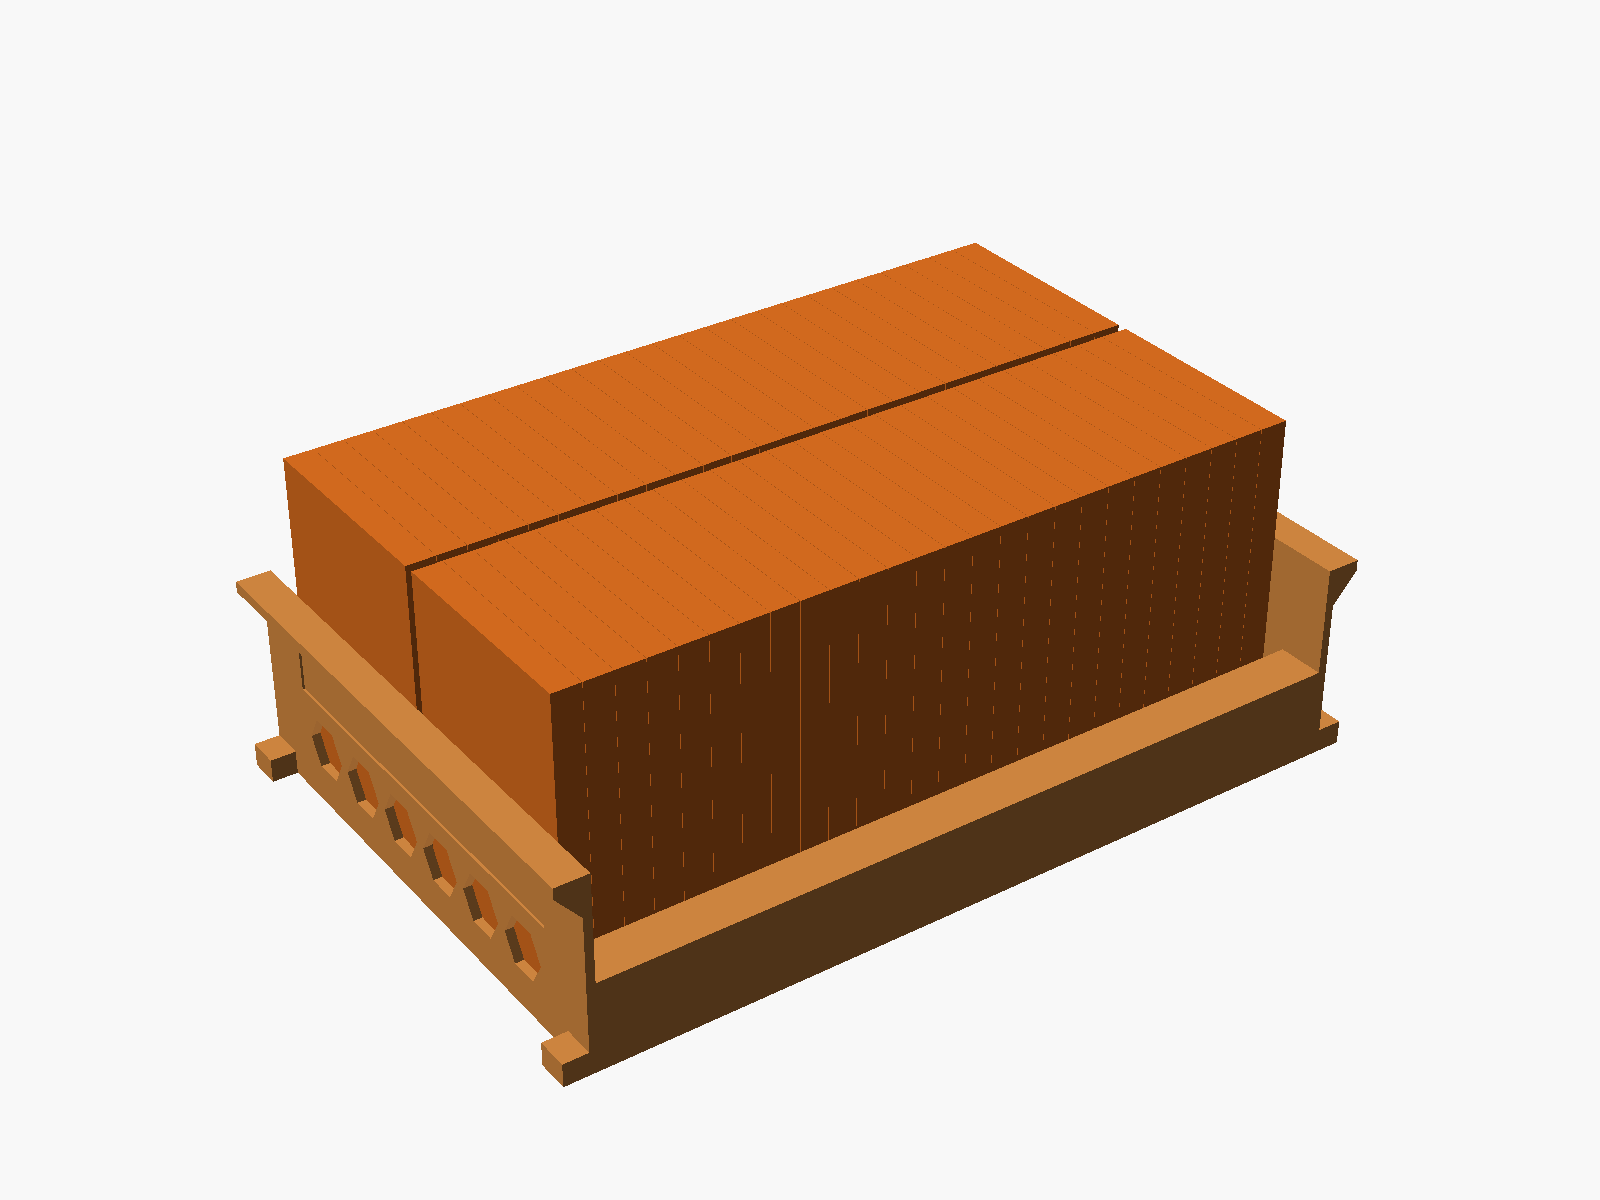
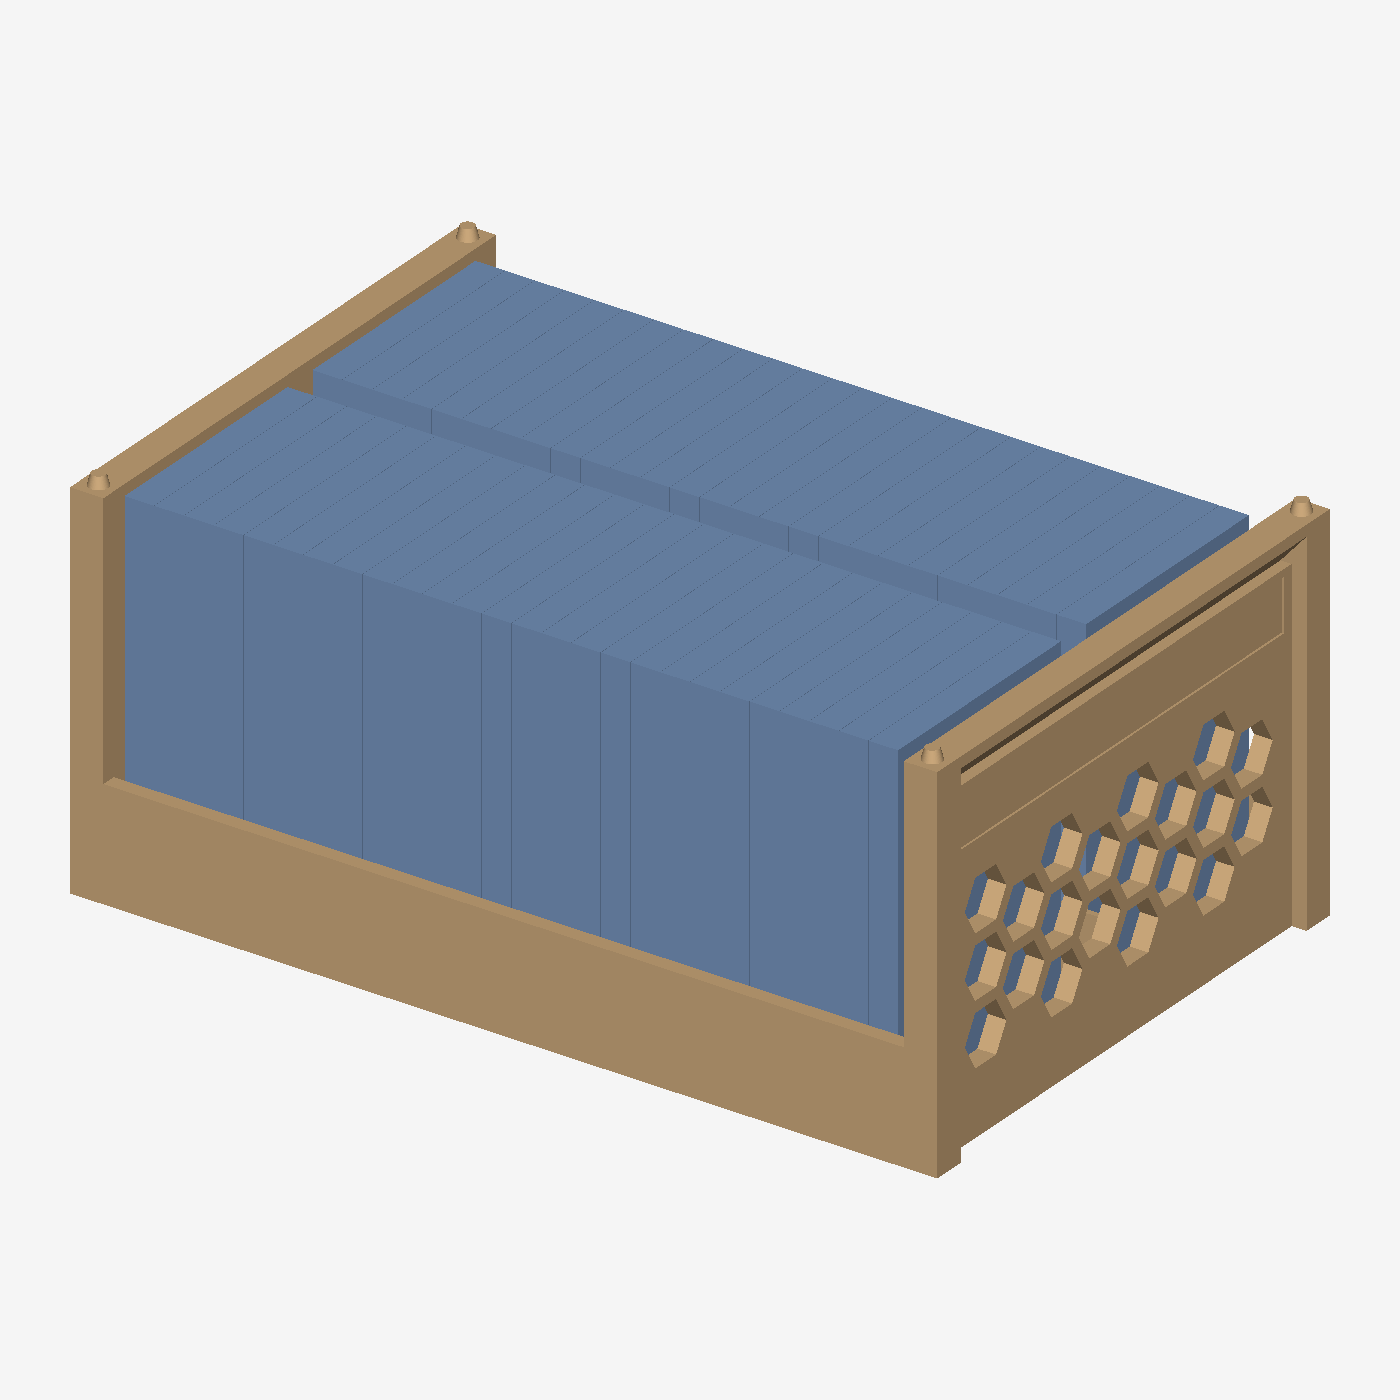
Regenerate previews, release scripts (9-plate MakerWorld 3MF, Cults package), README for the SLAB tray, bookend track and thicker walls

diff --git a/makerworld/make_3mf.py b/makerworld/make_3mf.py
@@ -1,0 +1,38 @@
+"""Bambu Studio (A1, 0.4 mm) project files for MakerWorld: one plate per part. Reuses the 3MF writer from ~/Projects/coin-trays.
+Usage: python make_3mf.py <dest-dir>   (needs numpy, trimesh, manifold3d, shapely, scipy)"""
+import sys, os, json, zipfile, shutil
+DEST=os.path.abspath(sys.argv[1]); os.makedirs(DEST,exist_ok=True)
+sys.argv=['x','/nonexistent','/tmp/_unused_3mf']; sys.path.insert(0,os.path.expanduser('~/Projects/coin-trays/tools'))
+import numpy as np, trimesh
+import make_color_3mf as m
+V=os.path.expanduser('~/Projects/coin-vault/out/'); PITCH=307.2; NPLATES=int(os.environ.get('NPLATES','9'))
+def cols(n): v=n**0.5; r=round(v); return r+1 if v>r else r      # Bambu Studio's plate grid: cols = round(sqrt(n)), rounded up on a tie-ish
+COLS=cols(NPLATES)
+def obj(name,stl,plate,xy):
+    t=trimesh.load(V+stl); c=(t.bounds[0]+t.bounds[1])/2; h=t.bounds[1][2]-t.bounds[0][2]
+    t=t.copy(); t.vertices=t.vertices-c
+    i=plate-1; x=(i%COLS)*PITCH+xy[0]; y=-(i//COLS)*PITCH+xy[1]
+    return dict(name=name,item=f'1 0 0 0 1 0 0 0 1 {x:.6f} {y:.6f} {h/2:.6f}',plate=plate,parts=[dict(name=name,mesh=t,extruder=1)])
+PLATE_NAMES={1:'Y63 5oz tray (48)',2:'H39 1oz tray (117)',3:'Nickel tray (175)',4:'Half dollar tray (105)',5:'Mixed nickel + half tray (140)',
+    6:'Rectangular capsule tray (90)',7:'Slab tray (52 or 84)',8:'Lid (one per stack)',9:'Bookends x6 (all sizes)'}   # keep <= ~30 chars, no colon (Bambu Studio blanks long names)
+def name_plates(ms):
+    import re
+    return re.sub(r'(<metadata key="plater_id" value="(\d+)"/>\s*<metadata key="plater_name" value=")"',lambda g:g.group(1)+PLATE_NAMES.get(int(g.group(2)),'')+'"',ms)
+def project(path,title,objs):
+    m.write_project(path,title,objs,None)
+    s=json.load(open(f'{m.AS}/bambu_template/project_settings.config'))
+    s.update({'layer_height':'0.2','print_settings_id':'0.20mm Standard @BBL A1','sparse_infill_density':'15%','wall_loops':'3',
+              'filament_settings_id':['Bambu PLA Basic @BBL A1','Bambu PLA Basic @BBL A1'],'filament_colour':['#3A3A3C','#000000'],'enable_support':'0'})
+    tmp=path+'.tmp'
+    with zipfile.ZipFile(path) as zi, zipfile.ZipFile(tmp,'w',zipfile.ZIP_DEFLATED) as zo:
+        for it in zi.infolist(): zo.writestr(it.filename, json.dumps(s,indent=4) if it.filename=='Metadata/project_settings.config' else name_plates(zi.read(it.filename).decode()) if it.filename=='Metadata/model_settings.config' else zi.read(it.filename))
+    os.replace(tmp,path)
+C=(128,128)
+fam=[obj('5 oz Y63 tray (48)','coin_vault_tray_Y63.stl',1,C),obj('1 oz H39 tray (117)','coin_vault_tray_H39.stl',2,C),
+     obj('Nickel tray (175)','coin_vault_tray_NICKEL.stl',3,C),obj('Half dollar tray (105)','coin_vault_tray_HALF.stl',4,C),
+     obj('Mixed nickel + half tray (140)','coin_vault_tray_MIXED.stl',5,C),obj('Rectangular capsule tray (90)','coin_vault_tray_RECT.stl',6,C),
+     obj('Slab tray (52 or 84)','coin_vault_tray_SLAB.stl',7,C),obj('Lid','coin_vault_lid.stl',8,C)]
+bk=[('Y63','coin_vault_bookend_Y63.stl',(50,50)),('H39','coin_vault_bookend_H39.stl',(130,50)),('RECT','coin_vault_bookend_RECT.stl',(195,50)),
+    ('SLAB','coin_vault_bookend_SLAB.stl',(70,125)),('HALF','coin_vault_bookend_HALF.stl',(150,125)),('NICKEL','coin_vault_bookend_NICKEL.stl',(200,125))]
+fam+= [obj(f'Bookend {n}',f,9,xy) for n,f,xy in bk]
+project(f'{DEST}/coin_vault_all_trays.3mf','Coin Vault - all trays',fam)

diff --git a/package/build_cults_package.py b/package/build_cults_package.py
@@ -1,0 +1,35 @@
+"""Rebuild the Cults3D / download package (STL + plain 3MF per part, one zip per tray) from out/*.stl.
+Usage: python build_cults_package.py <dest>      (dest = .../Copper_Capsule_Trays; STL/ 3MF/ Zips_per_tray/ and ../Copper_Capsule_Trays.zip are rewritten; Images/ + LISTING_TEXT.md are left alone)
+Needs: trimesh numpy"""
+import sys, os, shutil, zipfile, trimesh
+V = os.path.expanduser('~/Projects/coin-vault/out/'); D = os.path.abspath(sys.argv[1])
+TR = [('1_5oz_Y63_48_capsules', 'Y63', ['5oz_Y63']), ('2_1oz_H39_117_capsules', 'H39', ['1oz_H39']),
+      ('3_Buffalo_Nickel_175_capsules', 'NICKEL', ['Buffalo_Nickel']), ('4_Half_Dollar_105_capsules', 'HALF', ['Half_Dollar']),
+      ('5_Mixed_35_nickel_105_half', 'MIXED', ['Buffalo_Nickel', 'Half_Dollar']), ('6_Rectangular_35.7x57.5_90_capsules', 'RECT', ['Rectangular']),
+      ('7_Slab_52_or_84_capsules', 'SLAB', ['Slab'])]
+BK = {'5oz_Y63': 'Y63', '1oz_H39': 'H39', 'Buffalo_Nickel': 'NICKEL', 'Half_Dollar': 'HALF', 'Rectangular': 'RECT', 'Slab': 'SLAB'}
+for d in ('STL', '3MF', 'Zips_per_tray'): shutil.rmtree(f'{D}/{d}', ignore_errors=True)
+for fmt in ('STL', '3MF'):
+    for sub in ('1_Trays', '2_Lid', '3_Bookends'): os.makedirs(f'{D}/{fmt}/{sub}')
+def emit(src, sub, name):
+    for fmt in ('STL', '3MF'):
+        p = f'{D}/{fmt}/{sub}/{name}.{fmt.lower()}'
+        if fmt == 'STL': shutil.copy(V + src, p)
+        else: trimesh.load(V + src).export(p)
+for name, key, _ in TR: emit(f'coin_vault_tray_{key}.stl', '1_Trays', name)
+emit('coin_vault_lid.stl', '2_Lid', 'Flat_Lid')
+for name, key in BK.items(): emit(f'coin_vault_bookend_{key}.stl', '3_Bookends', f'Bookend_{name}')
+os.makedirs(f'{D}/Zips_per_tray')
+for name, key, bks in TR:
+    with zipfile.ZipFile(f'{D}/Zips_per_tray/{name[2:]}.zip', 'w', zipfile.ZIP_DEFLATED) as z:
+        for fmt in ('3MF', 'STL'):
+            ext = fmt.lower(); z.write(f'{D}/{fmt}/1_Trays/{name}.{ext}', f'{fmt}/{name[2:]}.{ext}' if fmt == 'STL' else f'{name[2:]}.{ext}')
+            for b in bks: z.write(f'{D}/{fmt}/3_Bookends/Bookend_{b}.{ext}', f'Bookends/{"STL/" if fmt == "STL" else ""}Bookend_{b}.{ext}')
+            z.write(f'{D}/{fmt}/2_Lid/Flat_Lid.{ext}', f'Lid/{"STL/" if fmt == "STL" else ""}Flat_Lid.{ext}')
+top = os.path.join(os.path.dirname(D), os.path.basename(D) + '.zip')
+with zipfile.ZipFile(top, 'w', zipfile.ZIP_DEFLATED) as z:
+    for fmt in ('3MF', 'STL'):
+        for root, _, fs in os.walk(f'{D}/{fmt}'):
+            for f in fs:
+                if not f.startswith('.'): p = os.path.join(root, f); z.write(p, os.path.relpath(p, D))
+print('ok', top)

diff --git a/package/render_previews.py b/package/render_previews.py
@@ -1,0 +1,27 @@
+"""Render the listing / README preview images from out/*.stl (+ loaded capsules from the .scad).
+Usage: python render_previews.py <outdir>    (needs openscad on PATH, numpy trimesh pillow)"""
+import sys, os, subprocess, trimesh, numpy as np
+sys.path.insert(0, os.path.expanduser('~/Projects/coin-vault')); import render
+V = os.path.expanduser('~/Projects/coin-vault/'); O = os.path.abspath(sys.argv[1]); os.makedirs(O, exist_ok=True)
+TRAY, CAPS, LID = (205, 170, 125), (120, 150, 190), (110, 110, 118)
+cache = {}
+def caps(c):
+    p = f'{O}/_caps_{c}.stl'
+    if not os.path.exists(p): subprocess.run(['openscad', '-o', p, '-D', f'capsule="{c}"', '-D', 'part="capsules_full"', V + 'coin_vault.scad'], capture_output=True)
+    return trimesh.load(p)
+def tray(c):
+    t = trimesh.load(V + f'out/coin_vault_tray_{c}.stl'); return t, t.bounds[1][2] - 3.0
+def at(m, z): m = m.copy(); m.apply_translation([0, 0, z]); return m
+def scene(kinds, lid=False, loaded=True):
+    ms, z = [], 0.0
+    for c in kinds:
+        t, H = tray(c); ms.append((at(t, z), TRAY))
+        if loaded: ms.append((at(caps(c), z), CAPS))
+        z += H
+    if lid: ms.append((at(trimesh.load(V + 'out/coin_vault_lid.stl'), z), LID))
+    return ms
+JOBS = {'1_stack_with_flat_lid': (['Y63', 'H39', 'HALF'], True, -55, 26), '2_stack_with_slab_tray': (['Y63', 'SLAB', 'H39'], True, -55, 26),
+        '3_5oz_Y63_tray': (['Y63'], False, -55, 30), '4_1oz_H39_tray': (['H39'], False, -55, 30), '5_mixed_nickel_half_loaded': (['MIXED'], False, -55, 32),
+        '6_rectangular_loaded': (['RECT'], False, -55, 32), '7_slab_tray_loaded': (['SLAB'], False, -55, 28), '8_stack_5oz': (['Y63', 'Y63', 'Y63'], True, -55, 26)}
+for name, (kinds, lid, az, el) in JOBS.items():
+    render.render(scene(kinds, lid), az=az, el=el, size=1400, out=f'{O}/{name}.png'); print(name, flush=True)

diff --git a/README.md b/README.md
@@ -4,7 +4,9 @@
 edge, face to face, in a curved cradle, and a sliding bookend keeps a part-full row
 upright. Everything is parametric OpenSCAD and prints with no supports.
 
-![Mixed stack: one 5 oz tray, two 1 oz trays, one lid](out/preview_stack_mixed.png)
+![Stack: 5 oz, 1 oz and half-dollar trays under one lid](out/preview_stack_mixed.png)
+
+![Bookend track, 4 mm long walls, 5 mm end walls](out/preview_bookend_track_and_walls.png)
 
 ## Parts
 
@@ -16,11 +18,11 @@ upright. Everything is parametric OpenSCAD and prints with no supports.
 | `coin_vault_tray_HALF.stl` | 105 × half dollars in Ø35.3 capsules (3 rows) | 233 × 151 × 42 | ~165 g |
 | `coin_vault_tray_MIXED.stl` | 35 nickels (front row) + 105 half dollars (3 rows) | 233 × 151 × 42 | ~170 g |
 | `coin_vault_tray_RECT.stl` | 90 × rectangular 35.7 × 57.5 capsules, portrait (3 rows) | 233 × 151 × 64.5 | ~190 g |
-| `coin_vault_tray_SLAB.stl` | 52 × 5 oz slab capsules 90 × 60 × 8, portrait, or 82 × 1 oz slabs 93.3 × 62.5 × 5 (thickness only changes the count) | 233 × 151 × 101 | ~320 g |
+| `coin_vault_tray_SLAB.stl` | 52 × 5 oz slab capsules 90 × 60 × 8, portrait, or 84 × 1 oz slabs 93.3 × 62.5 × 5 (thickness only changes the count) | 233 × 151 × 101 | ~320 g |
 | `coin_vault_lid.stl` | caps any stack | 233 × 151 × 5 | ~95 g |
 | `coin_vault_bookend_Y63.stl` / `_H39.stl` / `_NICKEL.stl` / `_HALF.stl` / `_RECT.stl` / `_SLAB.stl` | one per part-full row | | 1–10 g |
-| `slab_tray.stl` | 52 × 90 × 60 mm 5 oz slab capsules (7–8 mm thick), portrait | 233 × 151 × 55 | ~160 g |
-| `slab_bookend.stl` | one per part-full row | | ~12 g |
+| `slab_tray.stl` | *legacy*: the old low carry-handle slab tray (nothing stacks on it; no bookend track, thin walls). Superseded by `coin_vault_tray_SLAB.stl` | 233 × 151 × 55 | ~160 g |
+| `slab_bookend.stl` | *legacy*: bookend for the old slab tray | | ~12 g |
 
 Gram figures are estimates at 15% infill; your slicer has the final word. Nickel and half-dollar
 counts assume 6 mm capsules and rectangular ones 7 mm; capsules stand face to face, so thinner ones
@@ -98,3 +100,9 @@ These results set the design rules. Don't relax them to save filament:
 - `sag_check.py`: conservative stiffness check (numpy)
 - `render.py`: tiny z-buffer STL preview renderer (numpy, trimesh, pillow)
 - `out/`: exported STLs and preview images
+
+## Release files (not part of the OpenSCAD source)
+
+- `makerworld/make_3mf.py`: Bambu Studio project (9 plates, A1, PLA, 15% infill) for MakerWorld.
+- `package/build_cults_package.py`: STL + 3MF per part and one zip per tray for the Cults3D / download package.
+- `package/render_previews.py`: the preview images in `out/` and the listing.
